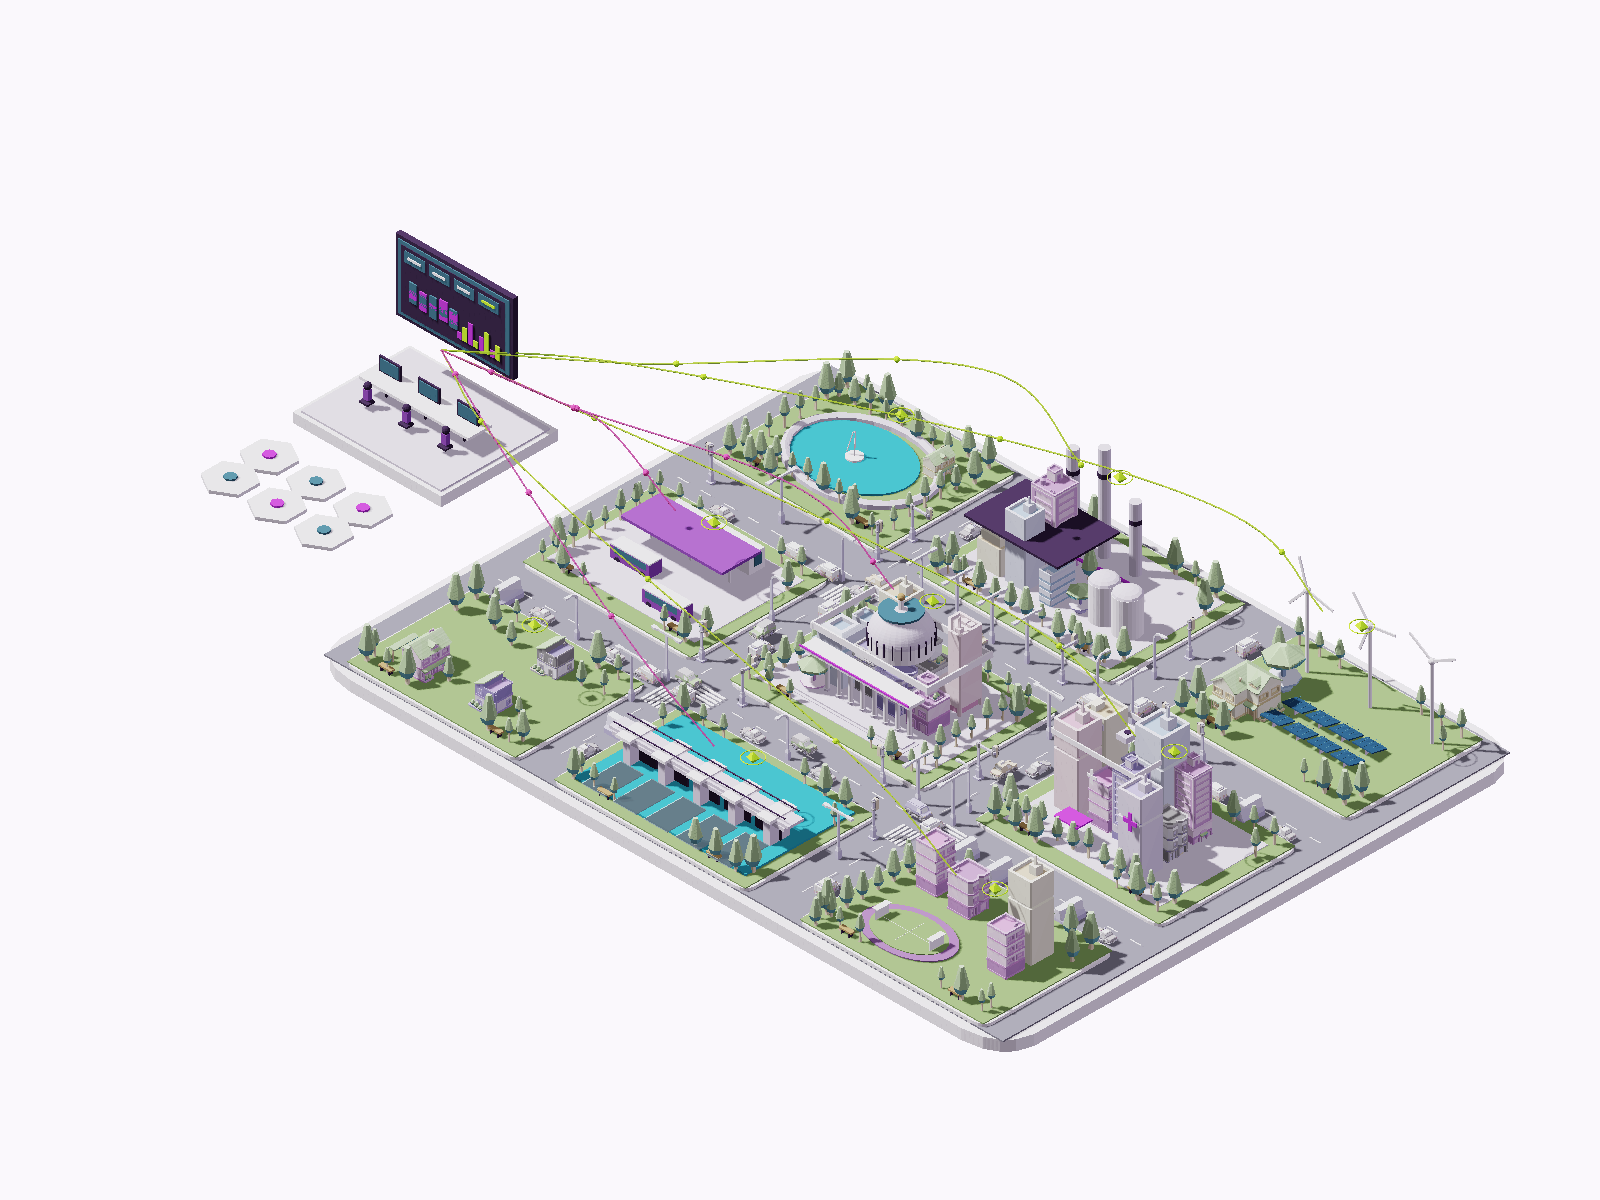
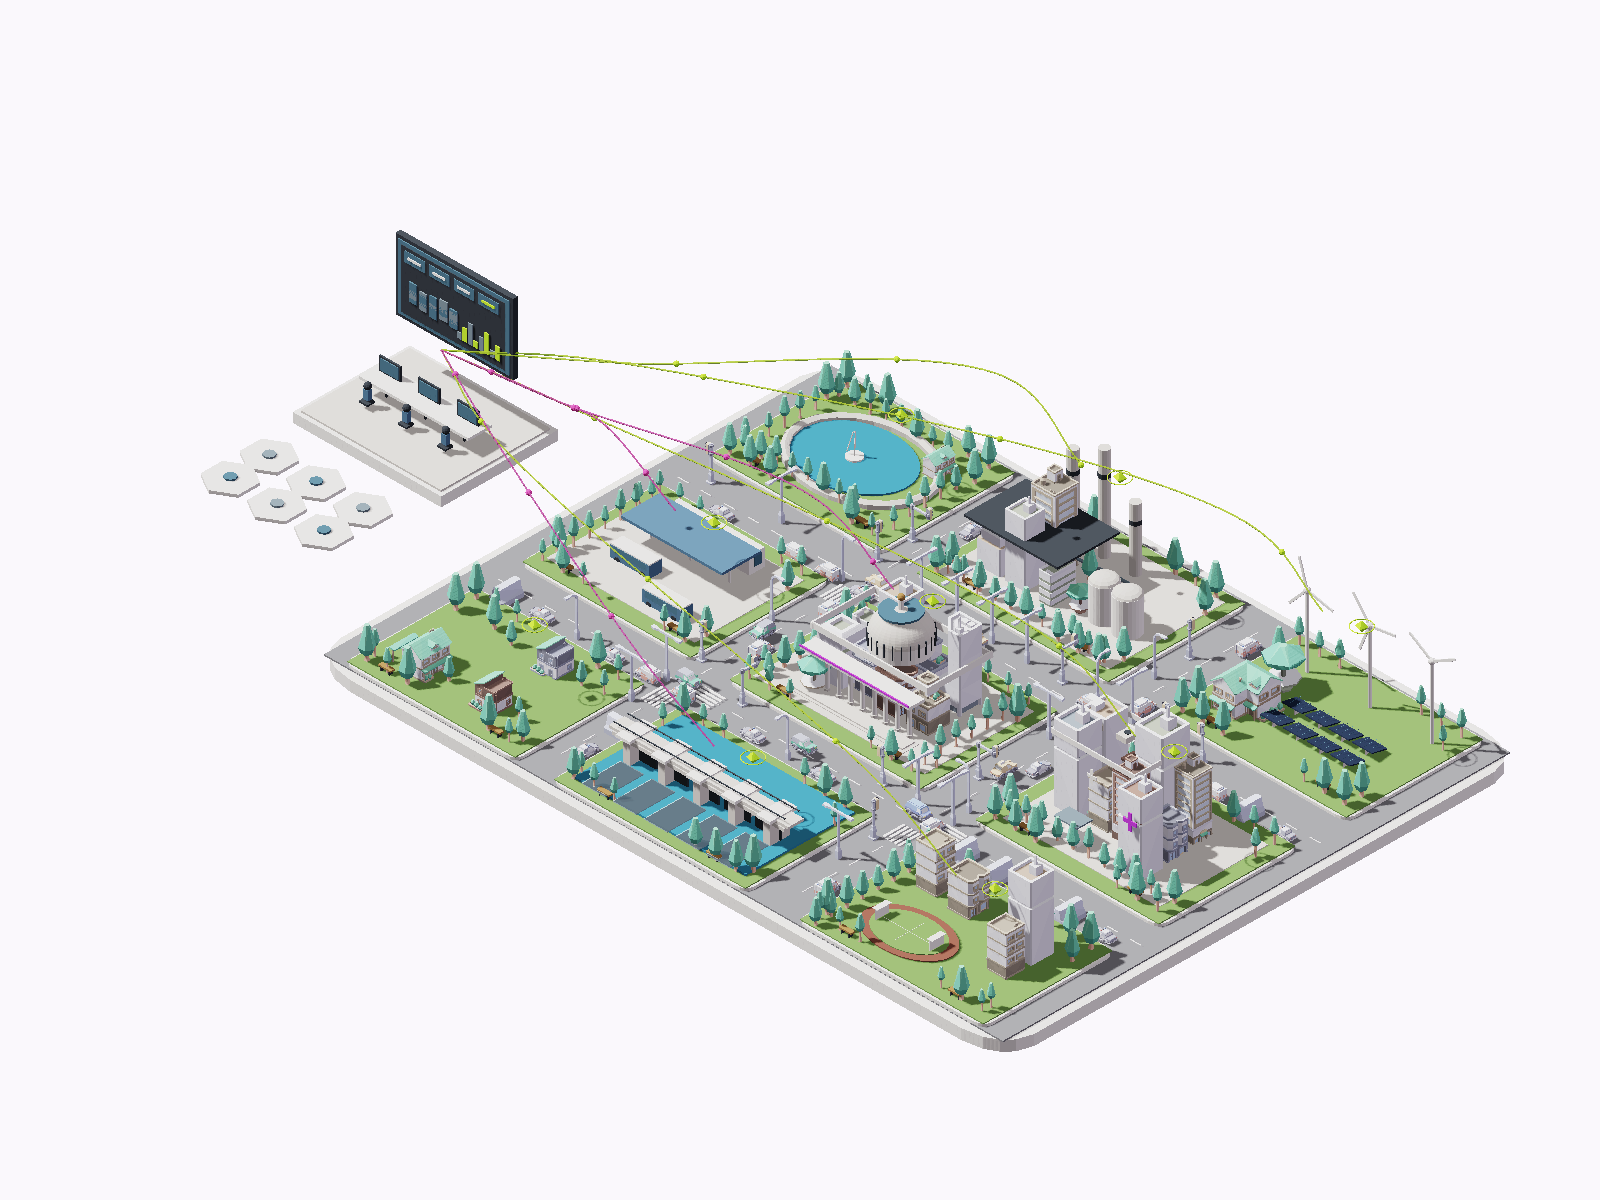
Give the architecture real material colour
Lime and orchid are the site's identity - the data routes, the forecast overlay,
the command center screens, the interface - and the city was being painted in
them too, which left the brand layer competing with the buildings instead of
reading over them.

The atlas repaint now leaves Kenney's hues alone; they are already a plausible
city palette. Only the most cartoon-saturated values are capped so the city sits
on the pale canvas without shouting. The six atlases per kit change what a wall
is made of rather than what colour it is painted: concrete as authored, then warm
stone, brick, slate, weathered stone and sandstone. Only the unsaturated part of
an atlas counts as wall, so windows, doors, roof tiles and planting keep their own
colour in every variant. Materials that are genuinely darker in life bring the
lightness down with them, because Kenney renders walls near white and a tint at
that lightness cannot be seen.

The procedural palette follows: plum render, lavender stone, purple roofs and
violet panels become warm off-white, limestone, terracotta and steel blue, with
real grass, foliage, timber and water. Lime, orchid and the amber warning stay
exactly where they were - on the data and status layer.

Verified: both suites pass and the production build succeeds. Geometry is
unchanged at 618 meshes and 158,866 triangles; this commit only moves colour.

Claude-Session: https://claude.ai/code/session_01MjisW3RJWG1toSRNHSkZDi

diff --git a/src/intelligence/civic-model.js b/src/intelligence/civic-model.js
@@ -11,7 +11,11 @@ const material=(color,more={})=>new T.MeshStandardMaterial({color,roughness:.65,
 export function createCivicCity(kit=null){
  const root=new T.Group(),assets={},locations={},overlays=new T.Group(),rotors=[],vehicles=[],gates=[];root.add(overlays);
  const placer=kit&&new KitPlacer(kit);
- const p={white:material('#f6f1fa'),stone:material('#dcd4e5'),edge:material('#c5bacf'),glass:material('#497789',{metalness:.38,roughness:.22}),blue:material('#9155b4'),deep:material('#40284f'),teal:material('#C044D9'),road:material('#8b8995'),mark:material('#faf8fc'),grass:material('#8ca66f'),leaf:material('#547c63'),leaf2:material('#b4c77e'),wood:material('#b3986a'),roof:material('#9d75ac'),water:material('#36a5b7',{metalness:.2,roughness:.28}),solar:material('#245678',{metalness:.3,roughness:.27}),lime:material('#C7FF3D'),orchid:material('#C044D9'),warning:material('#edb64c')};
+ // Architecture uses real building materials. Lime and orchid are the site's
+ // identity and stay on the layer that carries it - data routes, forecast
+ // overlays and the command center's screens - so the city itself is never
+ // painted in them.
+ const p={white:material('#f2efe9'),stone:material('#d9d5cc'),edge:material('#bdb8ae'),glass:material('#54798a',{metalness:.38,roughness:.22}),blue:material('#5d7f99'),deep:material('#3b4148'),teal:material('#7f8f97'),road:material('#8c8c8e'),mark:material('#f4f3f0'),grass:material('#7ea05c'),leaf:material('#3f7043'),leaf2:material('#8fb865'),wood:material('#a8834f'),roof:material('#8f5a4a'),water:material('#3f8fa8',{metalness:.2,roughness:.28}),solar:material('#20344f',{metalness:.3,roughness:.27}),lime:material('#C7FF3D'),orchid:material('#C044D9'),warning:material('#edb64c')};
  function box(g,w,h,d,x,y,z,m=p.white){const a=new T.Mesh(cube,m);a.scale.set(w,h,d);a.position.set(x,y,z);a.castShadow=true;a.receiveShadow=true;g.add(a);return a;}
  function cylinder(g,r,h,x,y,z,m=p.stone,n=20){const a=new T.Mesh(new T.CylinderGeometry(r,r,h,n),m);a.position.set(x,y,z);a.castShadow=true;a.receiveShadow=true;g.add(a);return a;}
  function sphere(g,r,x,y,z,m=p.leaf,s=[1,1,1]){const a=new T.Mesh(new T.SphereGeometry(r,12,8),m);a.position.set(x,y,z);a.scale.set(...s);a.castShadow=true;g.add(a);return a;}

diff --git a/docs/city-intelligence.md b/docs/city-intelligence.md
@@ -8,6 +8,7 @@ English-only enterprise presentation at `/city-intelligence`.
 - Lime `#C7FF3D`: connected data, primary controls and operational activity.
 - Orchid `#C044D9` and pink `#F05BB5`: intelligence, predictions and visual accents.
 - Trees, water and glazing retain material colors so the city stays legible.
+- Lime, orchid and pink are the site's identity, not the city's. They mark the data routes, the forecast overlays, the command center's screens and the interface. The architecture is never painted in them: buildings, planting, water and road surfaces use real material colour so the brand layer reads as information laid over a city rather than as the city itself.
 - Civic architecture uses rounded slabs, continuous glass, facade mullions, roof planting, colonnades and a dome. Hospital terraces include plant equipment. The scene includes a school, renewable district, industry, park, housing, transit and a command center.
 
 ## Architecture assets
@@ -16,28 +17,26 @@ Generic buildings and planting are Kenney models (City Kit Commercial, City Kit
 Suburban, City Kit Roads and Car Kit, all CC0 1.0; sources kept in
 `assets/kenney/`). `npm run assets` selects the models the scene loads, strips
 the tangent attribute they carry for a normal map the material does not use, and
-writes them with repainted atlases into `public/models/`.
+writes them with harmonised atlases into `public/models/`.
 
 Each kit ships one texture atlas that every model in it samples, so colour is a
-property of the atlas rather than of any mesh. The build maps each atlas pixel's
-hue onto a palette family and keeps its lightness, so Kenney's baked shading and
-window detail survive the repaint. Lime stays out of the mapping entirely: it
-marks connected data, and spending it on architecture would blur the Data
-Consolidation chapter. Orchid and pink are likewise reserved for the AI chapter,
-so buildings take a muted rose instead. Greens stay green for planting and cyan
-stays cyan for water, since both carry meaning in the scene.
+property of the atlas rather than of any mesh. Kenney's own hues are kept: they
+are already a plausible city palette, and the brand colours belong to the data
+layer rather than the buildings. The build only caps the most cartoon-saturated
+values so the city sits on the pale canvas without shouting.
 
-One atlas per kit would mean one colour scheme per kit, and a city where every
-building shares a palette reads as a single model rather than a place. The build
-therefore writes six atlases per kit: a neutral one, then five that aim the
-accents at plum, periwinkle, rose, steel and sand. Kenney's commercial stock is
-near-white, so a variant that only re-tinted the accents stayed invisible;
-variants also tint the neutrals and compress lightness downward, which is what
-makes them read across a district. Green and cyan are never re-aimed. Only
-buildings take a variant - trees, cars and street furniture always draw from the
-neutral atlas, so a variant can never turn a tree trunk plum.
+One atlas per kit would mean one wall colour for the whole city, which reads as
+a single model rather than a place. The build therefore writes six atlases per
+kit whose walls take a different real material - concrete as authored, then warm
+stone, brick, slate, weathered stone and sandstone. Only the unsaturated part of
+the atlas is a wall; windows, doors, roof tiles and planting keep Kenney's own
+colour in every variant, so a variant changes what a building is made of rather
+than repainting it. Kenney renders walls near white and a tint at that lightness
+is invisible, so materials that are genuinely darker in life bring the lightness
+down with them. Only buildings take a variant - trees, cars and street furniture
+always draw from the base atlas.
 
-Each variant is one cloned material shared by every model in its kit. GLTFLoader
+Each atlas is one cloned material shared by every model in its kit. GLTFLoader
 hands back a separate material and a separate copy of the atlas per GLB, which
 would be dozens of uploads of one image, so the loader collapses them to one
 material per kit before cloning.
@@ -52,7 +51,7 @@ landmark, platform, road and story prop keeps its exact position.
 
 `block()` fills its rectangle plot by plot rather than dropping one slab. An even
 grid of same-sized buildings is what makes a city read as a toy, so each plot
-varies its height, plan size, colour variant, rotation and offset, a share of
+varies its height, plan size, wall material, rotation and offset, a share of
 plots are left open and planted instead, and a few take a tower so the skyline is
 not one flat line. Detailed models are spent on part of the plots and the rest
 draw from the low-detail stock, which averages 164 triangles against 1,089, so a
